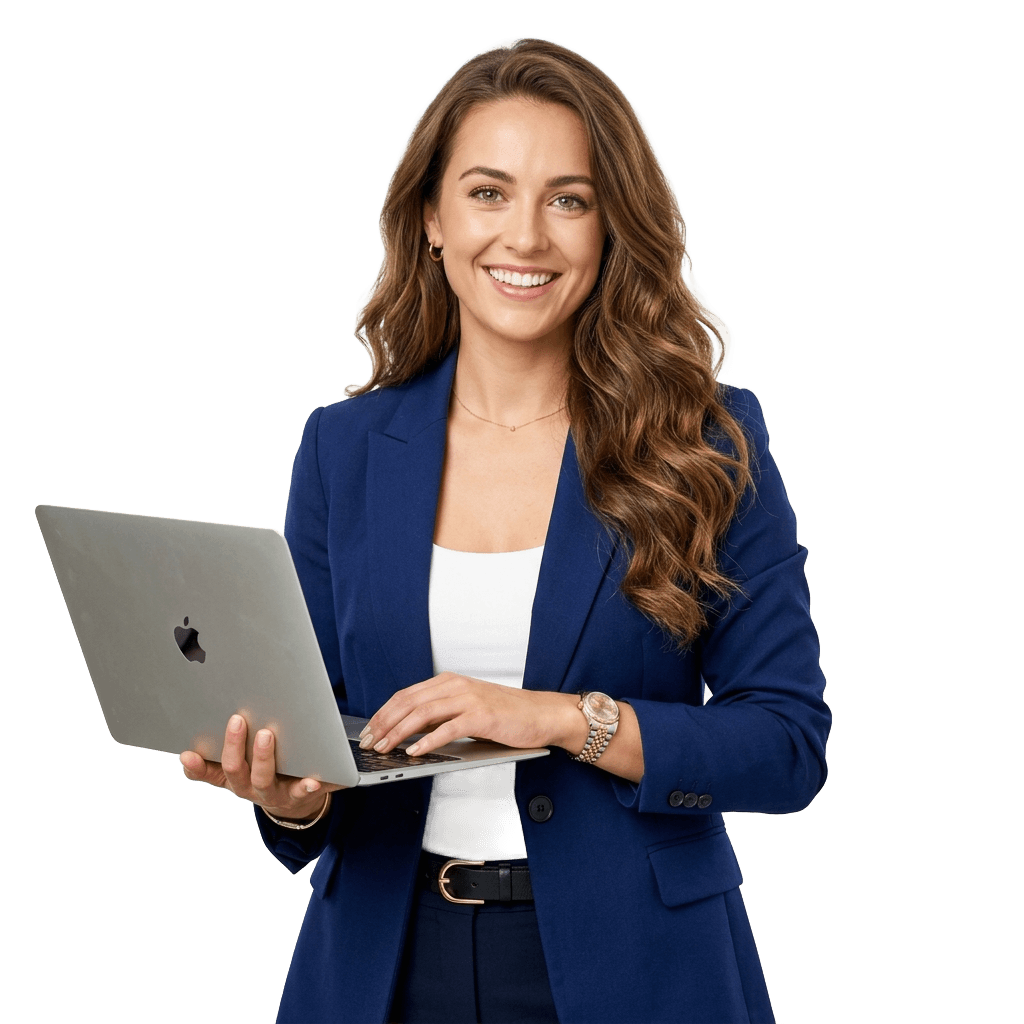
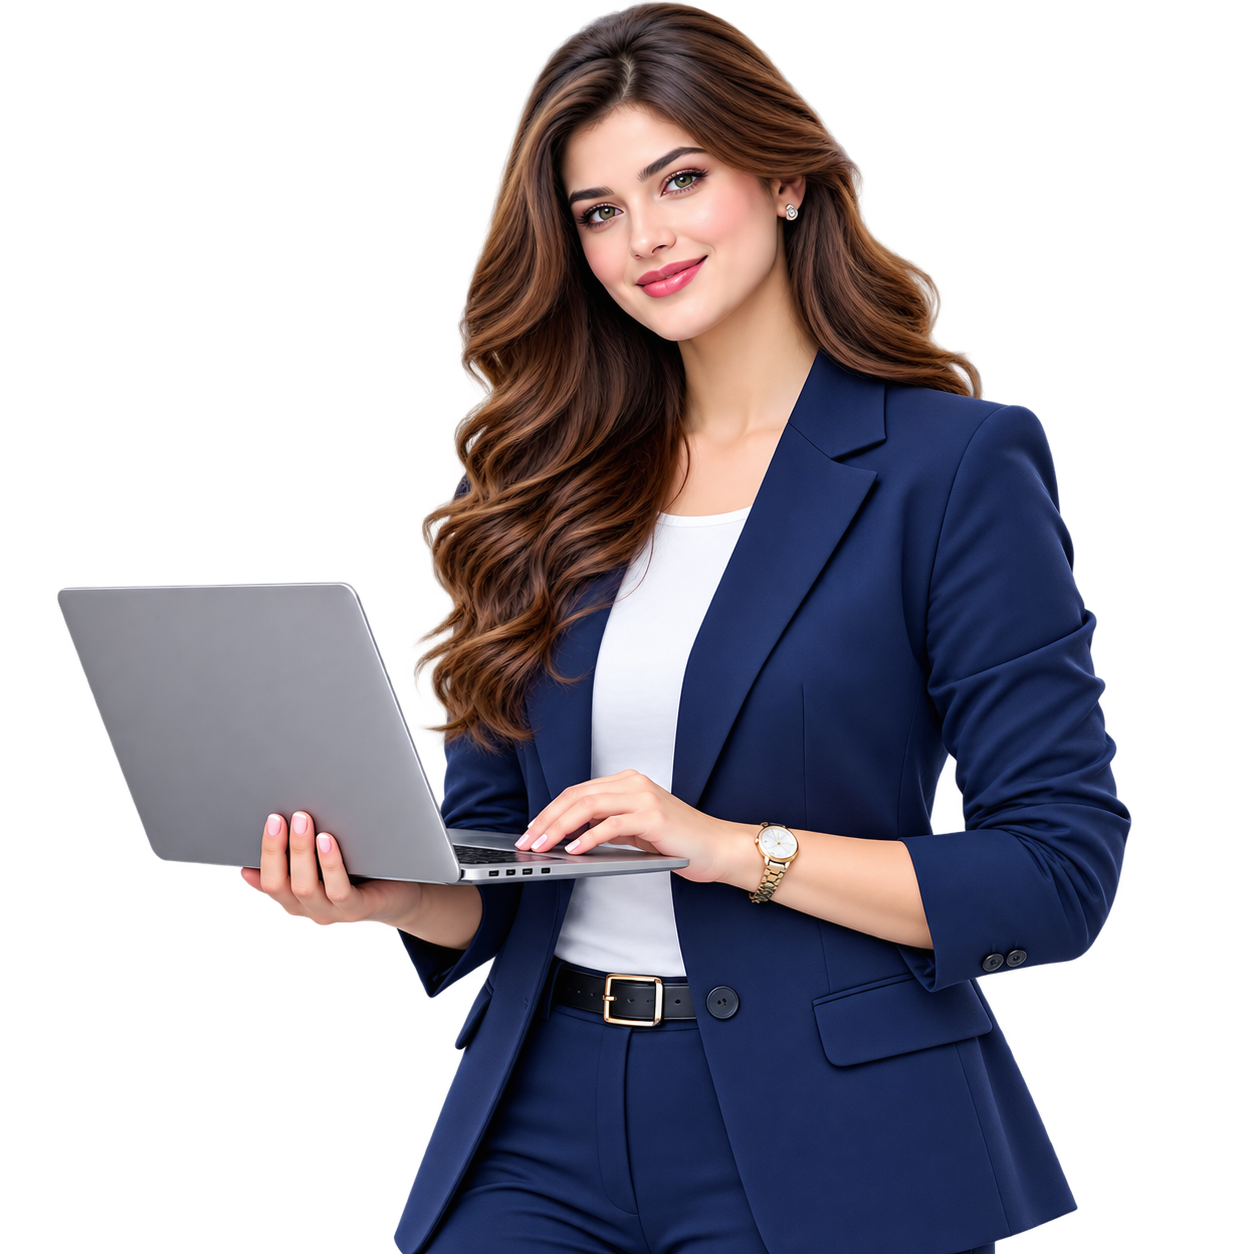
refactor: remove custom hero image upload functionality
Clean up redundant state and utility references from the Home page to streamline the codebase and remove unused assets/logic.

diff --git a/src/pages/HomePage.tsx b/src/pages/HomePage.tsx
@@ -1,4 +1,4 @@
-import React, { useState, useRef, useEffect } from 'react';
+import React, { useState } from 'react';
 import { 
   ArrowRight, 
   CheckCircle2, 
@@ -22,9 +22,7 @@ import {
   Globe2,
   Users,
   Award,
-  Play,
-  Upload,
-  RotateCcw
+  Play
 } from 'lucide-react';
 import { siteConfig } from '../data/siteConfig';
 import { servicesData } from '../data/servicesData';
@@ -35,7 +33,6 @@ import { SeoHead } from '../components/SeoHead';
 import { SeoReadySection } from '../components/SeoReadySection';
 import { WhyChooseUsSection } from '../components/WhyChooseUsSection';
 import { PortfolioItem } from '../types';
-import { saveImageToStorage, getImageFromStorage, clearImageFromStorage } from '../utils/imageStorage';
 import britishWomanHeroImg from '../assets/images/british_woman_hero_transparent.png';
 import aboutWomanDeskImg from '../assets/images/agency_about_workspace_1787944762954.jpg';
 import aboutDirectorImg from '../assets/images/about_director_avatar_1787866909107.jpg';
@@ -46,57 +43,6 @@ interface HomePageProps {
 }
 
 export const HomePage: React.FC<HomePageProps> = ({ onNavigate, onOpenQuote }) => {
-  const fileInputRef = useRef<HTMLInputElement>(null);
-  const [customHeroImg, setCustomHeroImg] = useState<string | null>(() => {
-    try {
-      return localStorage.getItem('webwizia_hero_custom_image');
-    } catch {
-      return null;
-    }
-  });
-  const [saveStatus, setSaveStatus] = useState<'idle' | 'saving' | 'saved'>(() => {
-    try {
-      return localStorage.getItem('webwizia_hero_custom_image') ? 'saved' : 'idle';
-    } catch {
-      return 'idle';
-    }
-  });
-
-  // Auto-load permanently saved image on page mount from persistent storage
-  useEffect(() => {
-    let isMounted = true;
-    getImageFromStorage().then((storedImg) => {
-      if (isMounted && storedImg) {
-        setCustomHeroImg(storedImg);
-        setSaveStatus('saved');
-      }
-    });
-    return () => {
-      isMounted = false;
-    };
-  }, []);
-
-  const handleHeroImageChange = (file: File) => {
-    if (!file.type.startsWith('image/')) return;
-    setSaveStatus('saving');
-    const reader = new FileReader();
-    reader.onload = async (e) => {
-      const result = e.target?.result as string;
-      if (result) {
-        setCustomHeroImg(result);
-        await saveImageToStorage(result);
-        setSaveStatus('saved');
-      }
-    };
-    reader.readAsDataURL(file);
-  };
-
-  const handleResetHeroImage = async () => {
-    setCustomHeroImg(null);
-    setSaveStatus('idle');
-    await clearImageFromStorage();
-  };
-
   const [selectedPortfolioCategory, setSelectedPortfolioCategory] = useState<string>('All');
   const [activePortfolioModal, setActivePortfolioModal] = useState<PortfolioItem | null>(null);
 
@@ -187,77 +133,19 @@ export const HomePage: React.FC<HomePageProps> = ({ onNavigate, onOpenQuote }) =
           <div className="grid grid-cols-1 lg:grid-cols-12 gap-8 lg:gap-10 items-center">
             {/* Left Column: Consultant with Laptop & Lavender Circular Backdrop */}
             <div className="lg:col-span-5 xl:col-span-5 relative flex justify-center items-end order-2 lg:order-1 pt-4 lg:pt-0">
-              <div 
-                className="relative w-full max-w-sm sm:max-w-md flex justify-center items-end group"
-                onDragOver={(e) => e.preventDefault()}
-                onDrop={(e) => {
-                  e.preventDefault();
-                  if (e.dataTransfer.files && e.dataTransfer.files[0]) {
-                    handleHeroImageChange(e.dataTransfer.files[0]);
-                  }
-                }}
-              >
+              <div className="relative w-full max-w-sm sm:max-w-md flex justify-center items-end">
                 {/* Lavender circular backdrop (from template) */}
                 <div className="absolute top-1/2 left-1/2 -translate-x-1/2 -translate-y-[45%] w-[290px] h-[290px] sm:w-[380px] sm:h-[380px] lg:w-[420px] lg:h-[420px] rounded-full bg-[#ded6f8] -z-10 shadow-sm" />
 
-                {/* Hidden File Input for 100% exact original file selection */}
-                <input
-                  type="file"
-                  ref={fileInputRef}
-                  accept="image/*"
-                  className="hidden"
-                  onChange={(e) => {
-                    if (e.target.files && e.target.files[0]) {
-                      handleHeroImageChange(e.target.files[0]);
-                    }
-                  }}
-                />
-
-                {/* British Woman Consultant with Laptop (Direct file support) */}
+                {/* British Woman Consultant with Laptop */}
                 <img
                   id="hero-businesswoman-image"
-                  src={customHeroImg || britishWomanHeroImg}
+                  src={britishWomanHeroImg}
                   alt="Professional Web Design Consultant with Laptop"
-                  className="relative z-10 w-auto max-h-[460px] sm:max-h-[520px] lg:max-h-[580px] object-contain drop-shadow-2xl translate-y-3 sm:translate-y-4 lg:translate-y-6 select-none cursor-pointer transition-transform duration-200 hover:scale-[1.01]"
+                  className="relative z-10 w-auto max-h-[460px] sm:max-h-[520px] lg:max-h-[580px] object-contain drop-shadow-2xl translate-y-3 sm:translate-y-4 lg:translate-y-6 select-none"
                   referrerPolicy="no-referrer"
                   loading="eager"
-                  onClick={() => fileInputRef.current?.click()}
-                  title="Click to choose your exact original british woman.png file from your device"
                 />
-
-                {/* Quick File Select Control Badge & Auto-Save Indicator */}
-                <div className="absolute top-2 right-2 sm:right-4 z-20 flex items-center gap-1.5">
-                  {saveStatus === 'saved' && (
-                    <span className="hidden sm:inline-flex items-center gap-1 px-2.5 py-1 bg-emerald-600/90 text-white text-[11px] font-medium rounded-full shadow-md backdrop-blur-sm">
-                      <CheckCircle2 className="w-3 h-3 text-emerald-200" />
-                      <span>Auto-Saved</span>
-                    </span>
-                  )}
-                  {saveStatus === 'saving' && (
-                    <span className="inline-flex items-center gap-1 px-2.5 py-1 bg-amber-500/90 text-white text-[11px] font-medium rounded-full shadow-md backdrop-blur-sm animate-pulse">
-                      <span>Saving...</span>
-                    </span>
-                  )}
-                  <button
-                    type="button"
-                    onClick={() => fileInputRef.current?.click()}
-                    className="flex items-center gap-2 px-3.5 py-2 bg-[#1c1248] hover:bg-[#2c1d6e] text-white rounded-full text-xs font-semibold shadow-xl transition-all hover:scale-105 active:scale-95 border border-indigo-300/40 cursor-pointer"
-                    title="Upload original image directly without any AI crop or edit"
-                  >
-                    <Upload className="w-3.5 h-3.5 text-[#ff5268]" />
-                    <span>{customHeroImg ? "Change Photo" : "Upload Your Exact Image"}</span>
-                  </button>
-                  {customHeroImg && (
-                    <button
-                      type="button"
-                      onClick={handleResetHeroImage}
-                      className="p-2 bg-white/95 backdrop-blur-sm text-slate-600 hover:text-red-600 rounded-full shadow-lg hover:bg-white transition-all border border-slate-200/80 cursor-pointer"
-                      title="Reset image to default"
-                    >
-                      <RotateCcw className="w-3.5 h-3.5" />
-                    </button>
-                  )}
-                </div>
               </div>
             </div>
 
